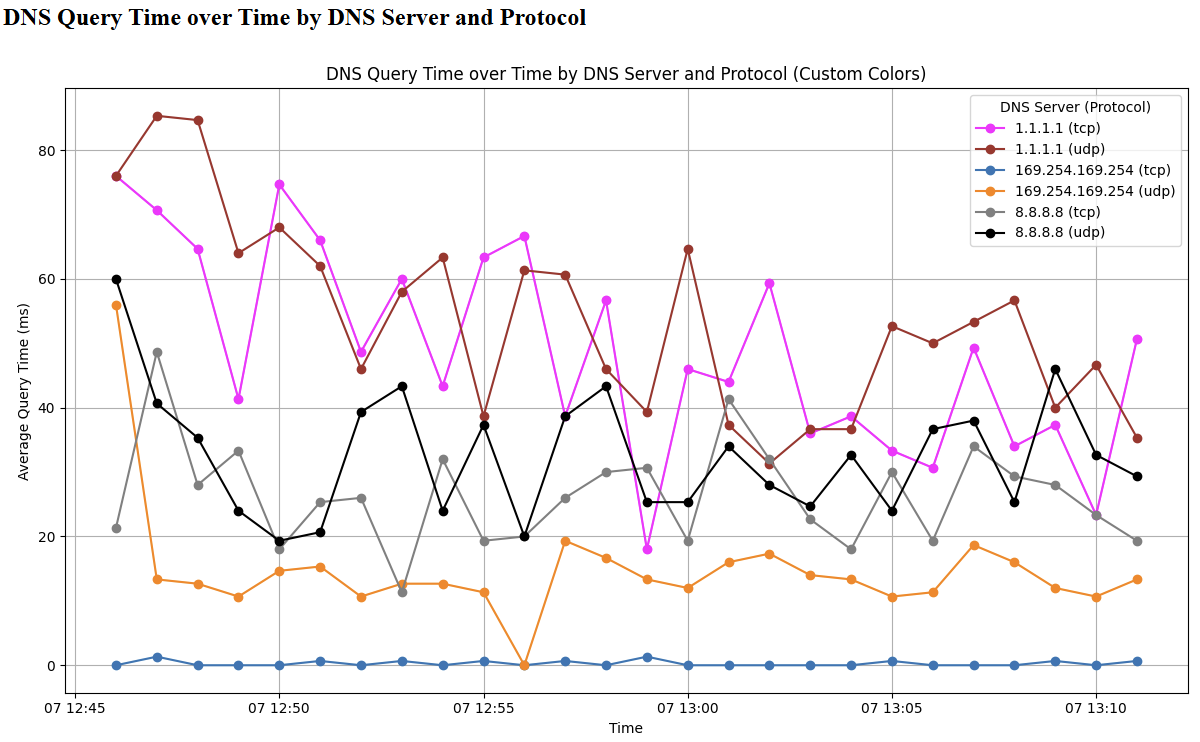
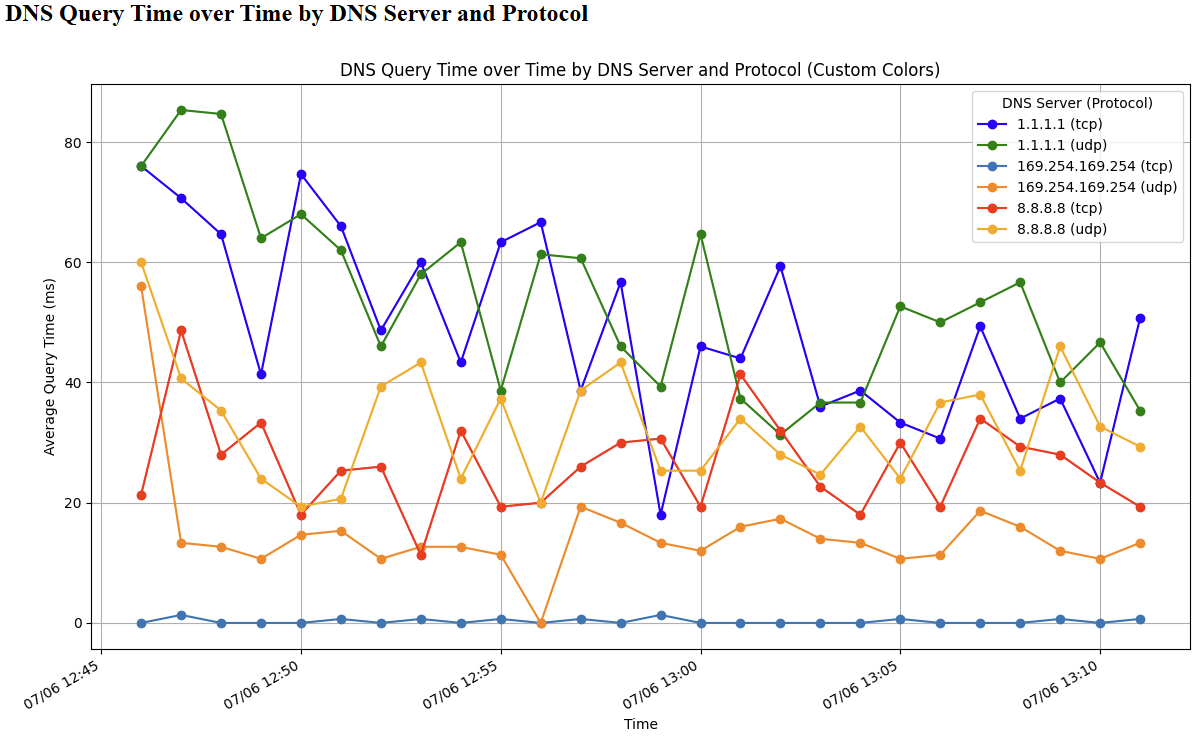
update date format, new exampel file

diff --git a/dns_plot_to_html.py b/dns_plot_to_html.py
@@ -1,5 +1,6 @@
 import pandas as pd
 import matplotlib.pyplot as plt
+import matplotlib.dates as mdates
 import base64
 from io import BytesIO
 import sys
@@ -15,29 +16,34 @@ html_path = sys.argv[2]
 df = pd.read_csv(csv_path)
 df['timestamp'] = pd.to_datetime(df['timestamp'])
 
-# Resample to average per minute
-df_resampled = (
-    df.set_index('timestamp')
-      .groupby(['dns_server', 'protocol'])
-      .resample('min')
-      .mean(numeric_only=True)
+# Round timestamps to the nearest minute
+df['minute'] = df['timestamp'].dt.floor('min')
+
+# Average over each minute, dns_server, and protocol
+df_agg = (
+    df.groupby(['minute', 'dns_server', 'protocol'])['query_time_ms']
+      .mean()
       .reset_index()
 )
 
 # Color mapping
 color_map = {
-    ('8.8.8.8', 'udp'): 'black',
-    ('8.8.8.8', 'tcp'): 'grey',
-    ('1.1.1.1', 'udp'): 'brown',
-    ('1.1.1.1', 'tcp'): 'magenta'
+    ('8.8.8.8', 'udp'): 'orange',
+    ('8.8.8.8', 'tcp'): 'red',
+    ('1.1.1.1', 'udp'): 'green',
+    ('1.1.1.1', 'tcp'): 'blue'
 }
 
-# Plot
 fig, ax = plt.subplots(figsize=(12, 7))
-for (dns_server, protocol), group_data in df_resampled.groupby(['dns_server', 'protocol']):
+for (dns_server, protocol), group_data in df_agg.groupby(['dns_server', 'protocol']):
     label = f"{dns_server} ({protocol})"
     color = color_map.get((dns_server, protocol), None)
-    ax.plot(group_data['timestamp'], group_data['query_time_ms'], marker='o', label=label, color=color)
+    ax.plot(group_data['minute'], group_data['query_time_ms'], marker='o', label=label, color=color)
+
+# Format x-axis as "day/month HH:mm"
+ax.xaxis.set_major_formatter(mdates.DateFormatter('%d/%m %H:%M'))
+
+fig.autofmt_xdate()  # Auto-rotate date labels
 
 ax.set_title('DNS Query Time over Time by DNS Server and Protocol (Custom Colors)')
 ax.set_xlabel('Time')
@@ -46,7 +52,7 @@ ax.legend(title='DNS Server (Protocol)', loc='upper right')
 ax.grid(True)
 plt.tight_layout()
 
-# Save the plot as an image and encode it to base64
+# Save the plot as a base64-encoded PNG image
 buffer = BytesIO()
 plt.savefig(buffer, format='png')
 buffer.seek(0)
@@ -71,3 +77,4 @@ with open(html_path, 'w', encoding='utf-8') as f:
     f.write(html_content)
 
 print(f"HTML generated: {html_path}")
+
